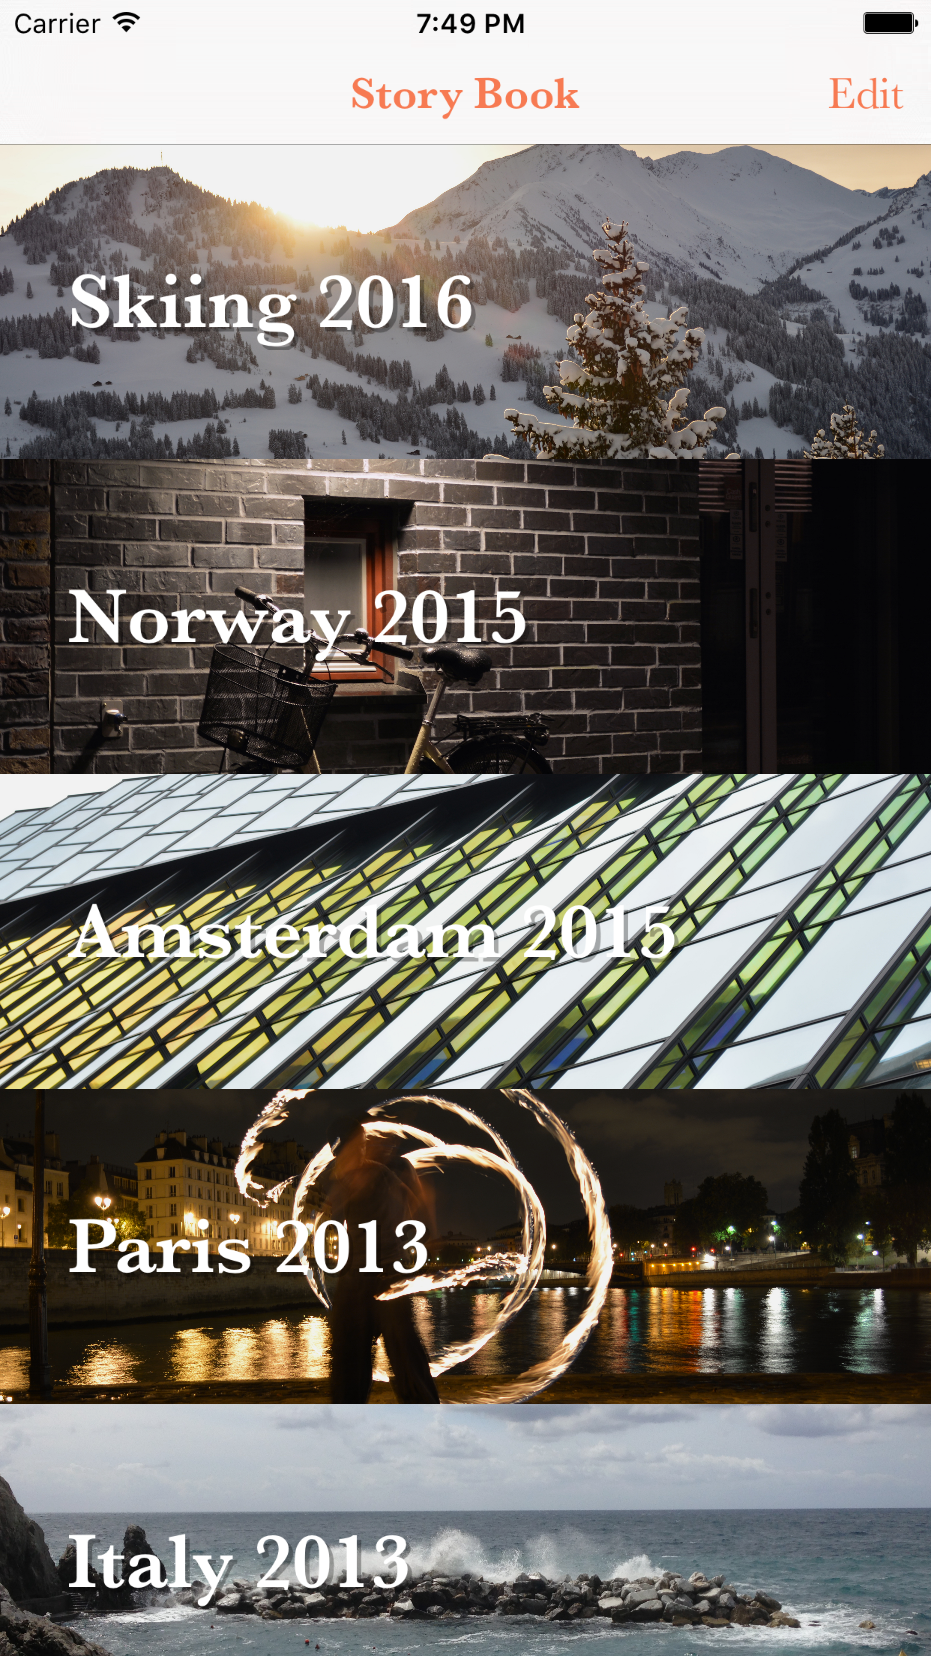
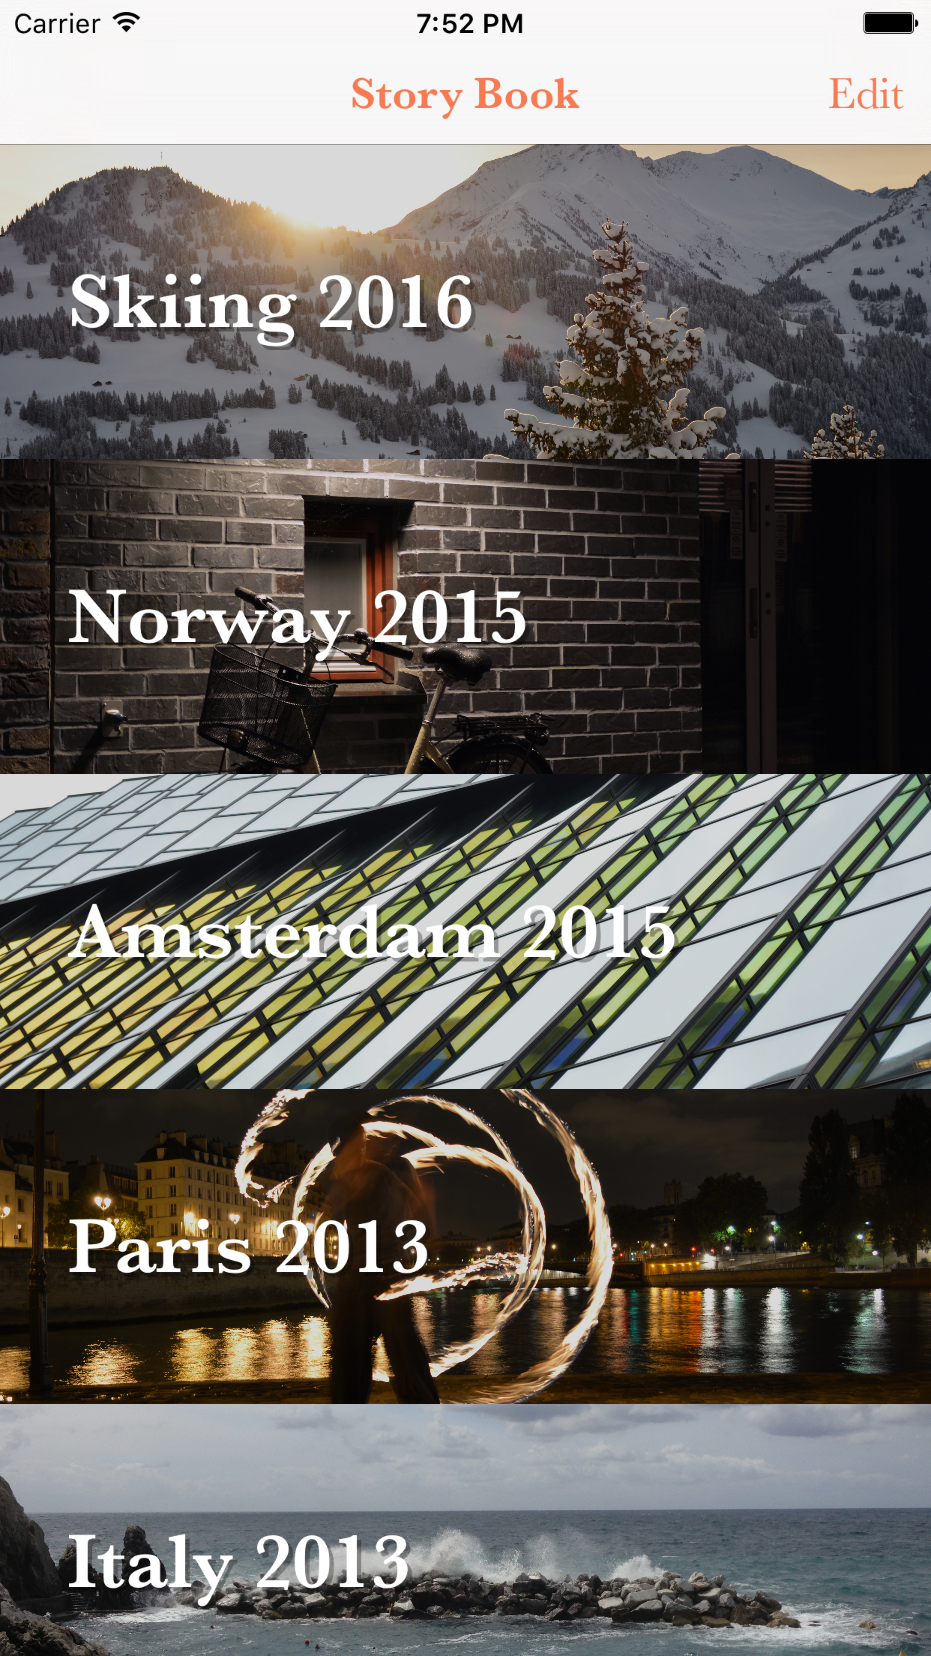
Updated cell overlay alpha

diff --git a/Story/TripCell.swift b/Story/TripCell.swift
@@ -117,7 +117,7 @@ class TripCell: UITableViewCell, UITextFieldDelegate {
         horizontalMotionEffect.maximumRelativeValue = ViewConstants.parallaxDelta
         tripImageView.addMotionEffect(horizontalMotionEffect)
         
-        imageOverlayView.backgroundColor = UIColor.blackColor().colorWithAlphaComponent(0.05)
+        imageOverlayView.backgroundColor = UIColor.blackColor().colorWithAlphaComponent(0.15)
         
         tripTitleView.numberOfLines = 1
         tripTitleView.font = UIFont(name: ViewConstants.boldTextFontName, size: 35)
